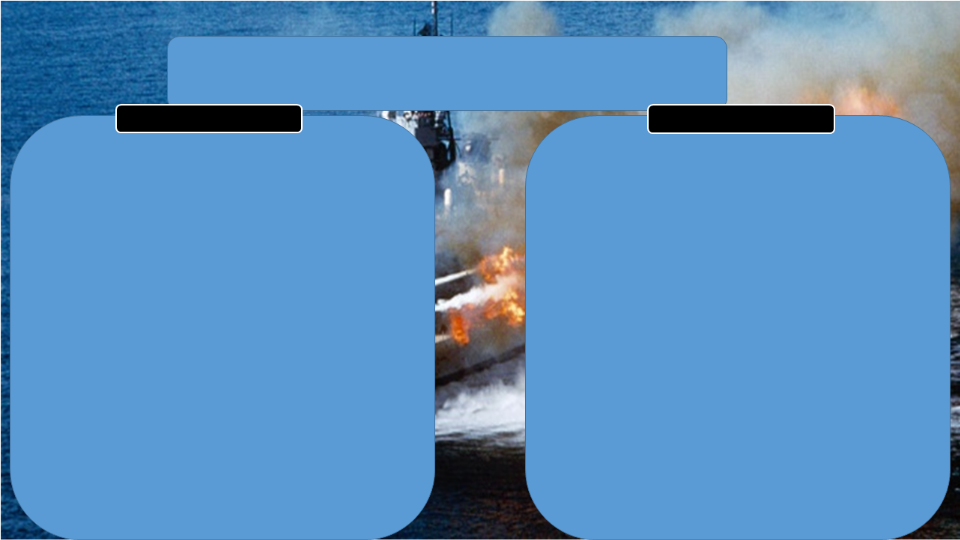
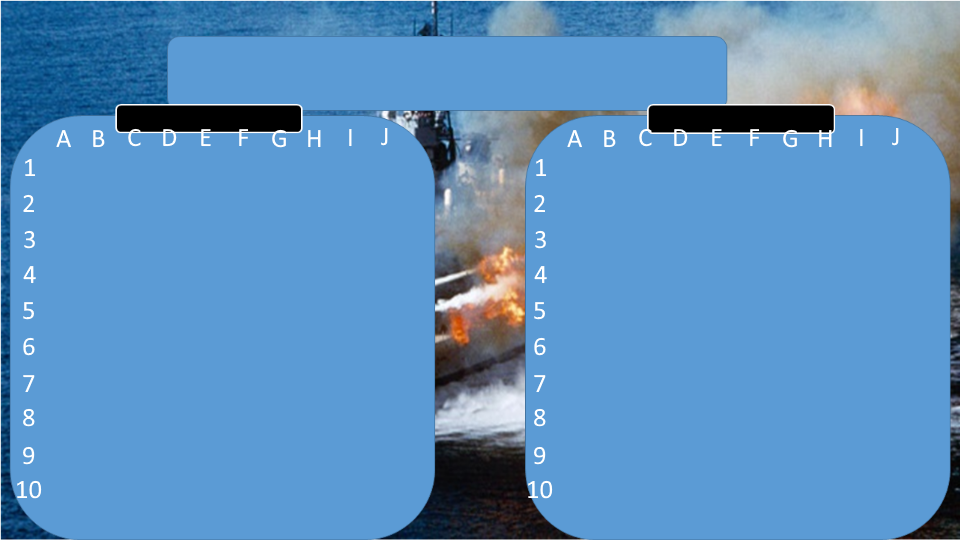
Images change
+ Added A B C D on 1 2 3 4
+ small game chat bug fix

diff --git a/Client.py b/Client.py
@@ -689,7 +689,7 @@ def game(client_socket):
     lobby_gui.title("Chat")
     lobby_gui.lobbies.pack_forget()
     lobby_gui.chat.pack_forget()
-    lobby_gui.attributes('-disabled', True)
+    lobby_gui.overrideredirect(1)
     lobby_gui.geometry("200x540")
     lobby_gui.chat.pack()
     lobby_gui.deiconify()
@@ -776,7 +776,7 @@ def game(client_socket):
     lobby_gui.chat.pack_forget()
     lobby_gui.lobbies.pack(side=Tkinter.LEFT)
     lobby_gui.chat.pack(side=Tkinter.RIGHT)
-    lobby_gui.attributes('-disabled', False)
+    lobby_gui.overrideredirect(0)
 
 
 #constants
